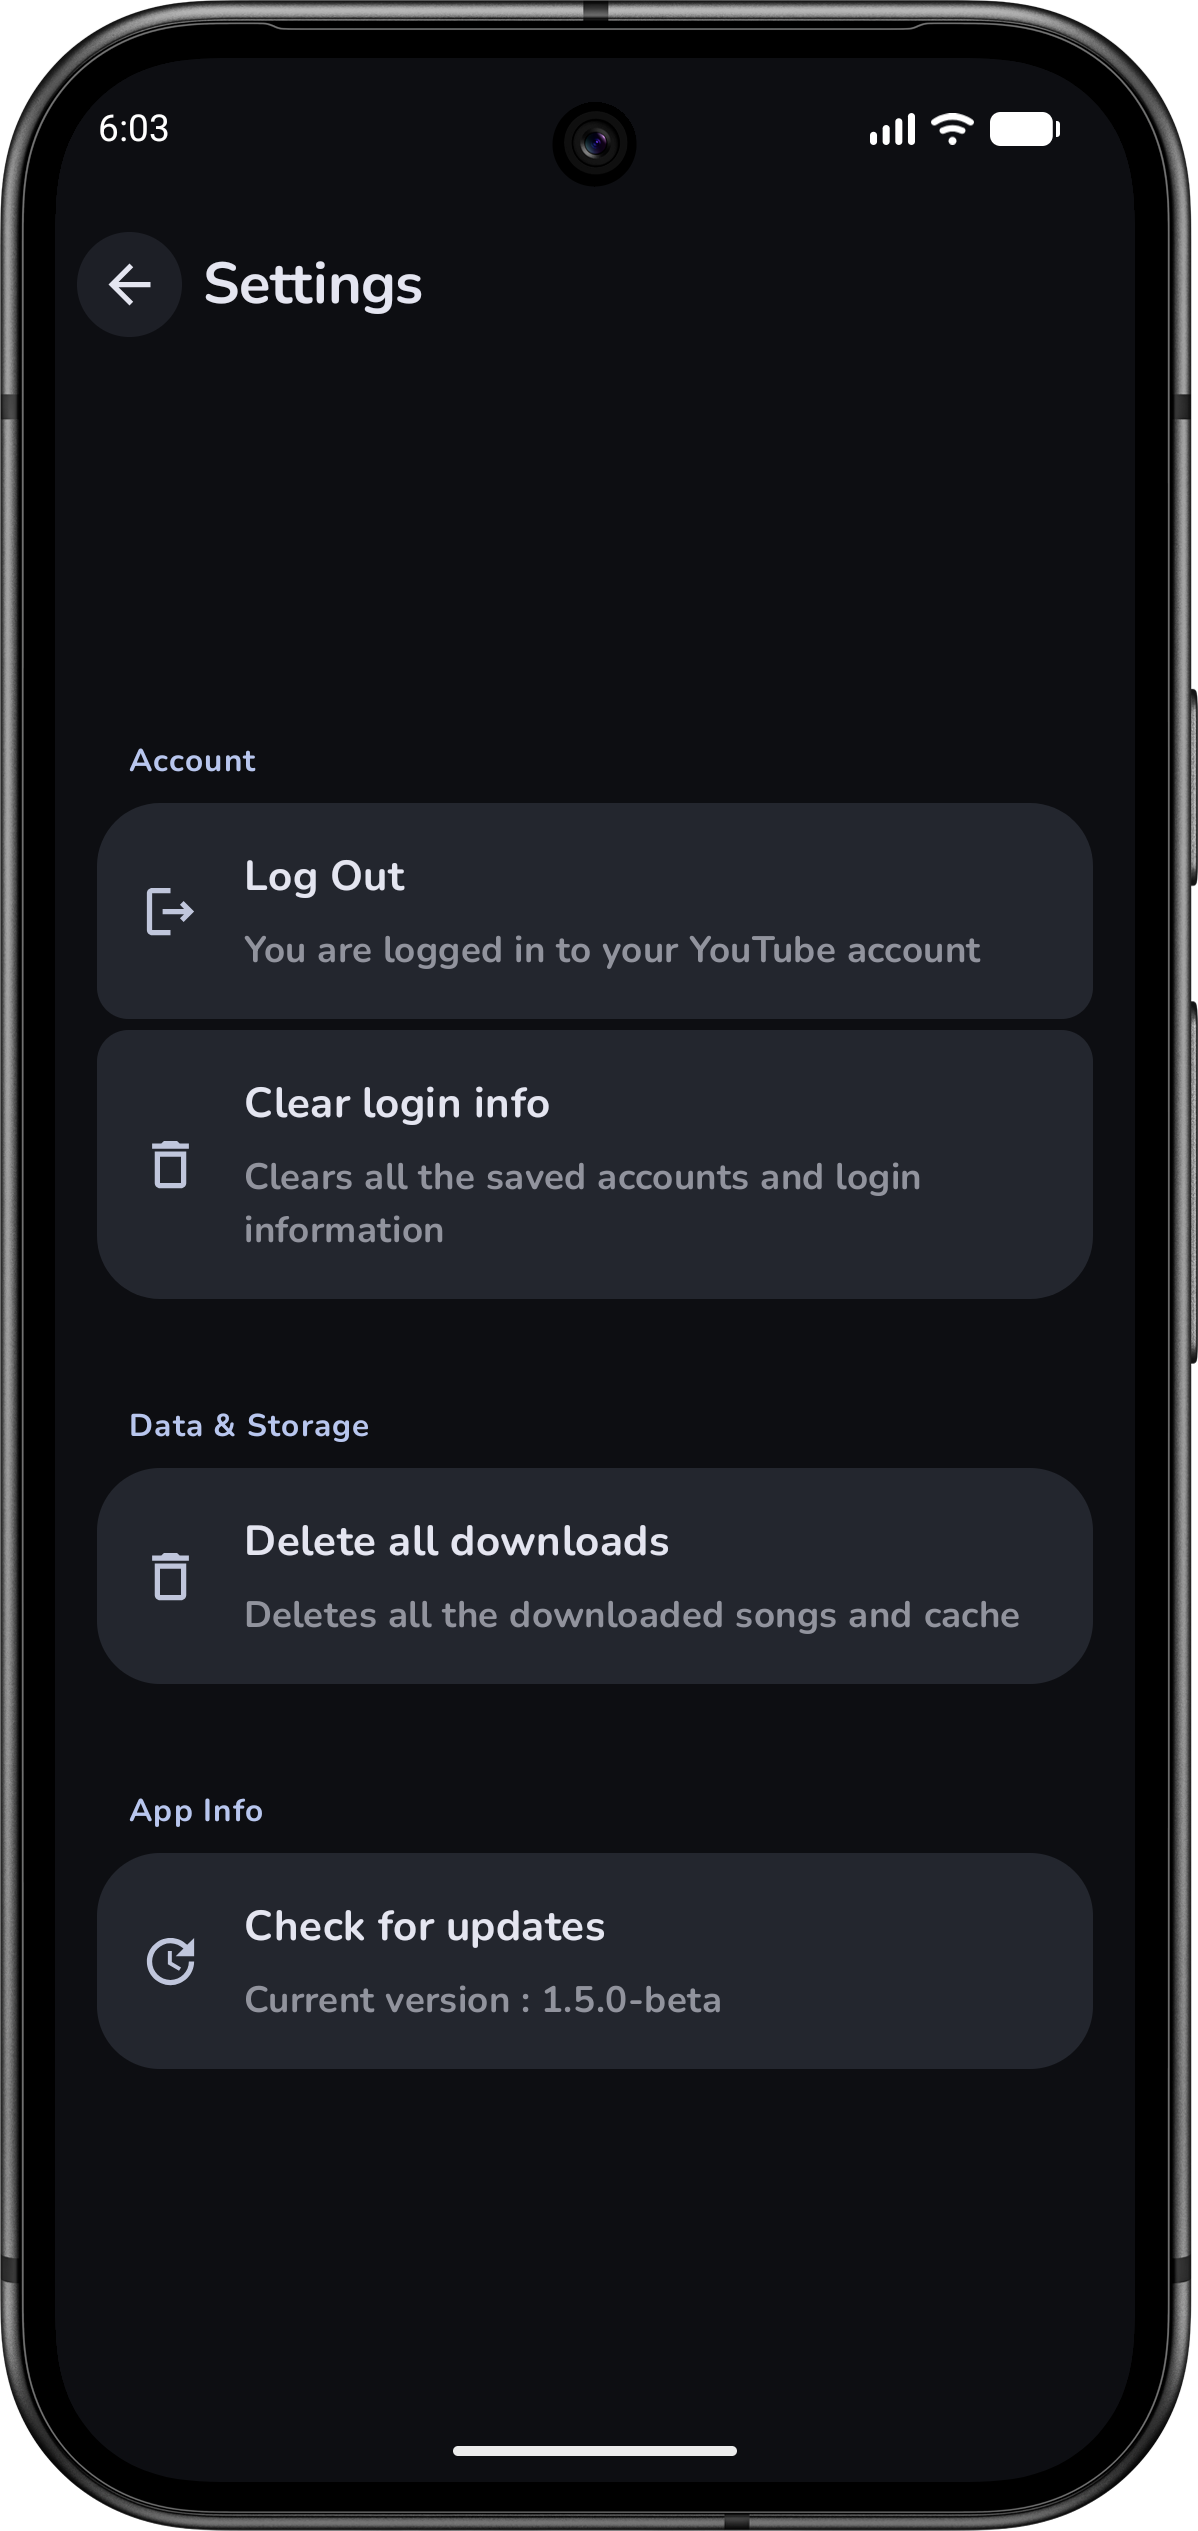
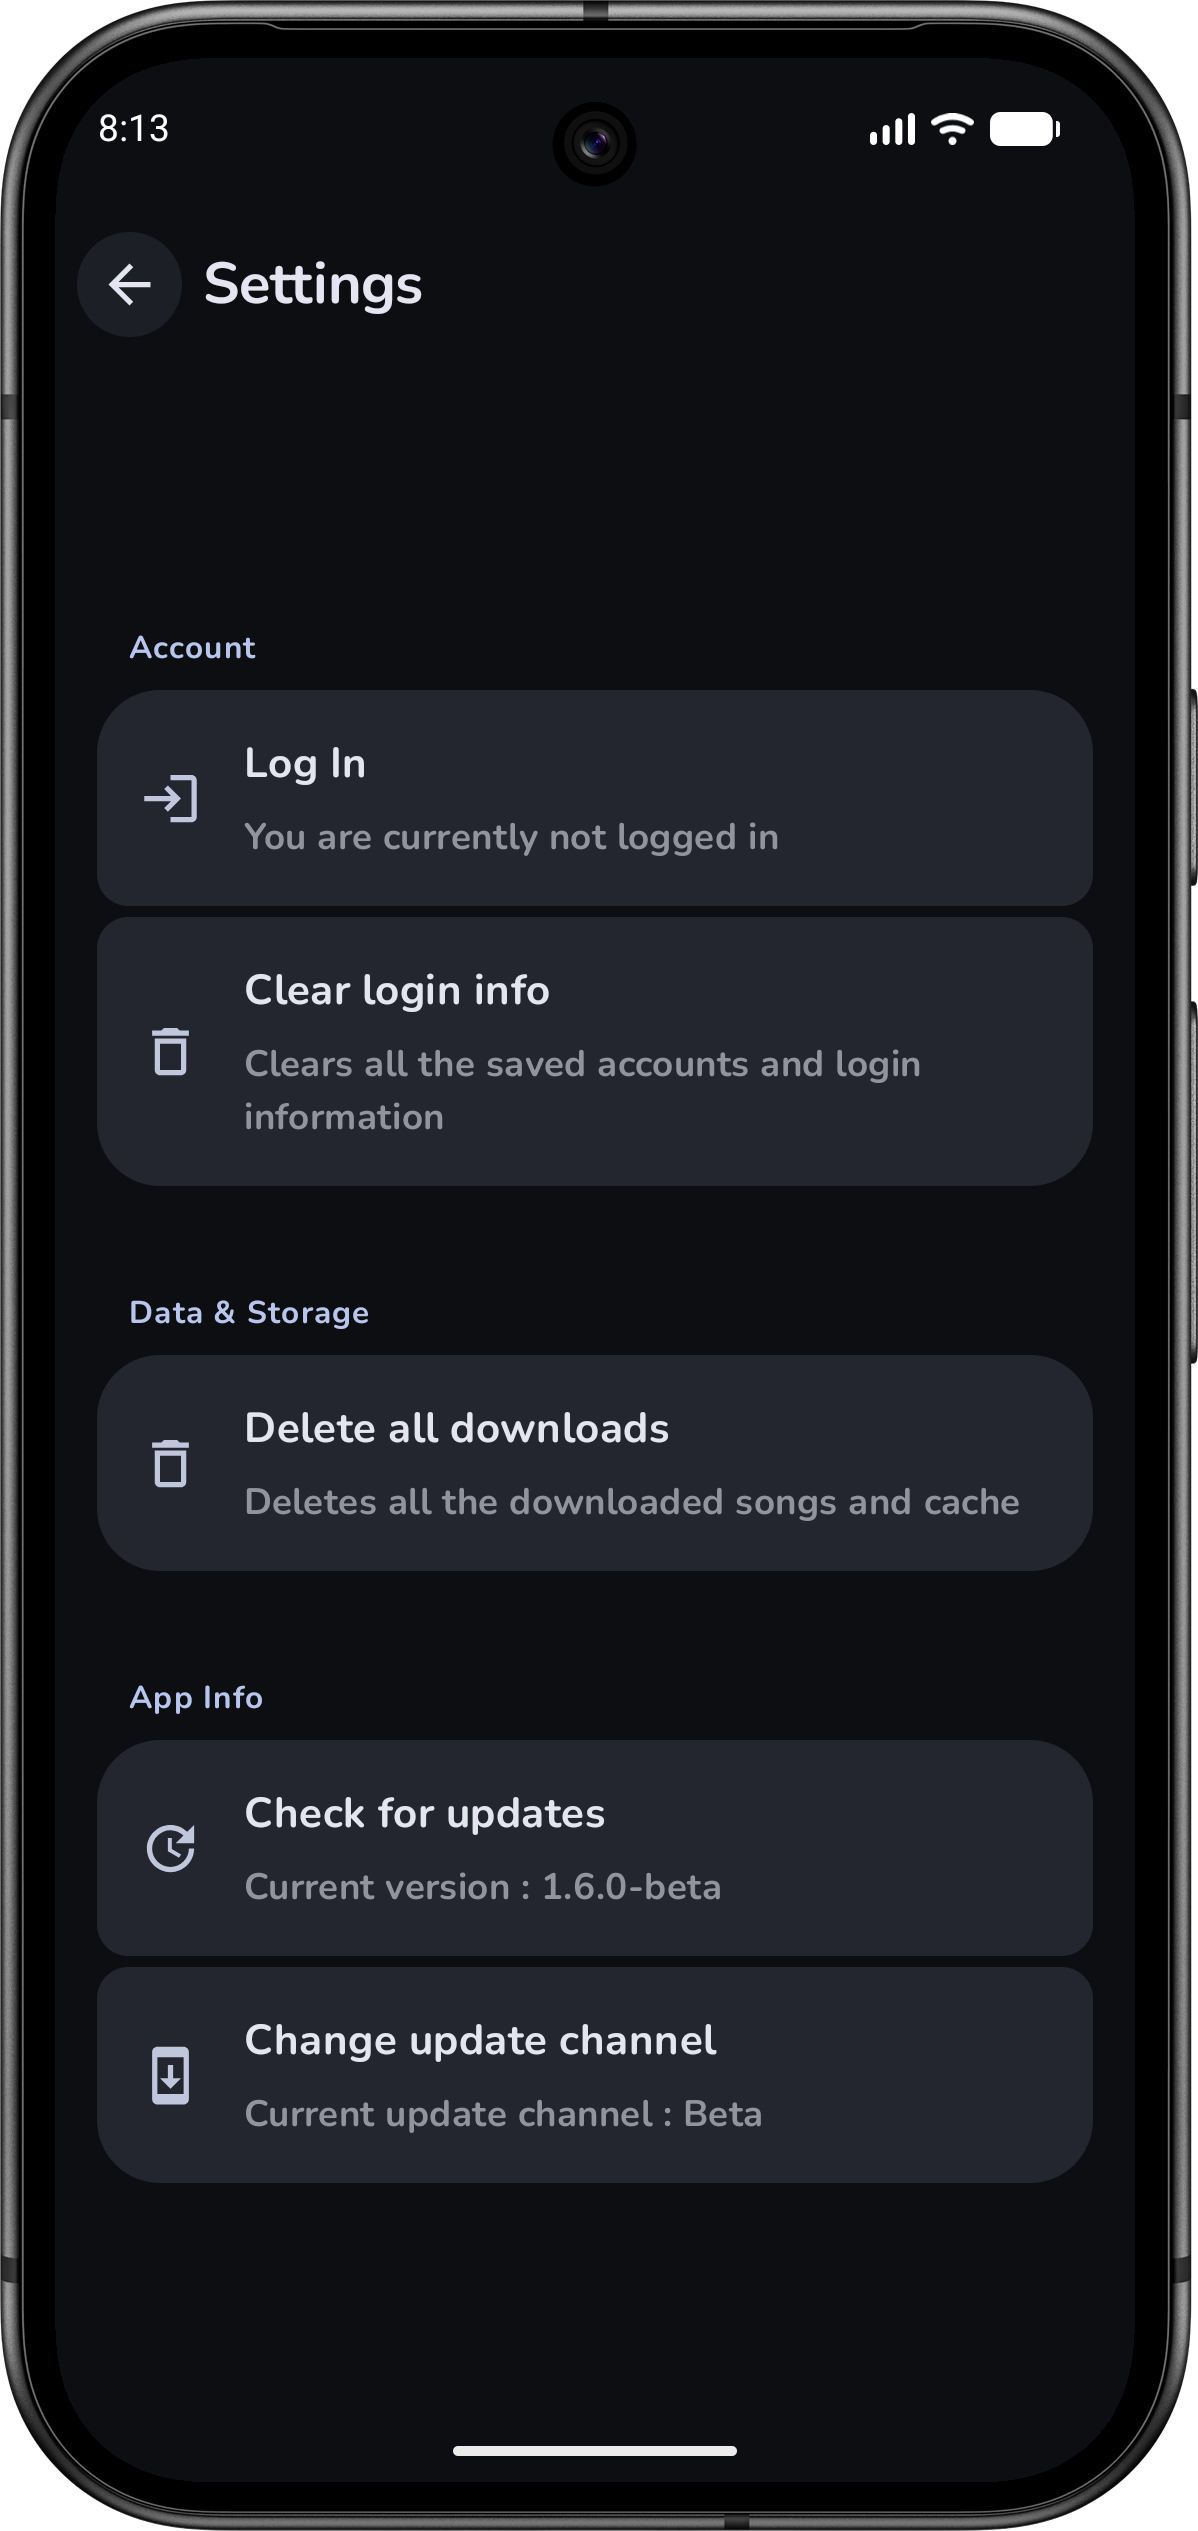
Update app info

Changed region(s): [[0.0618, 0.2497, 0.9265, 0.874], [0.0927, 0.0312, 0.1235, 0.0624]]

diff --git a/app/src/main/java/ca/ilianokokoro/umihi/music/ui/screens/playlist/PlaylistScreen.kt b/app/src/main/java/ca/ilianokokoro/umihi/music/ui/screens/playlist/PlaylistScreen.kt
@@ -88,10 +88,6 @@ fun PlaylistScreen(
                     is ScreenState.Success -> {
                         uiState.screenState.playlist
                     }
-
-                    else -> {
-                        Playlist(PlaylistInfo())
-                    }
                 }
                 val songs = playlistInfo.songs
 

diff --git a/README.md b/README.md
@@ -25,6 +25,8 @@ Designed for simplicity and smooth performance, Umihi Music lets you enjoy your 
 ## Features ✨
 
 -   Play your YouTube / YT Music playlists
+-   Download music for offline playback
+-   Automatic update checker
 -   No ads
 -   Lightweight and fast
 -   Clean Material Expressive design
@@ -32,8 +34,8 @@ Designed for simplicity and smooth performance, Umihi Music lets you enjoy your 
 
 ### Future features (In development)
 
--   [ ] Download playlists for offline use
 -   [ ] Translations to other languages
+-   [ ] Search and playlist editing
 
 ---
 
